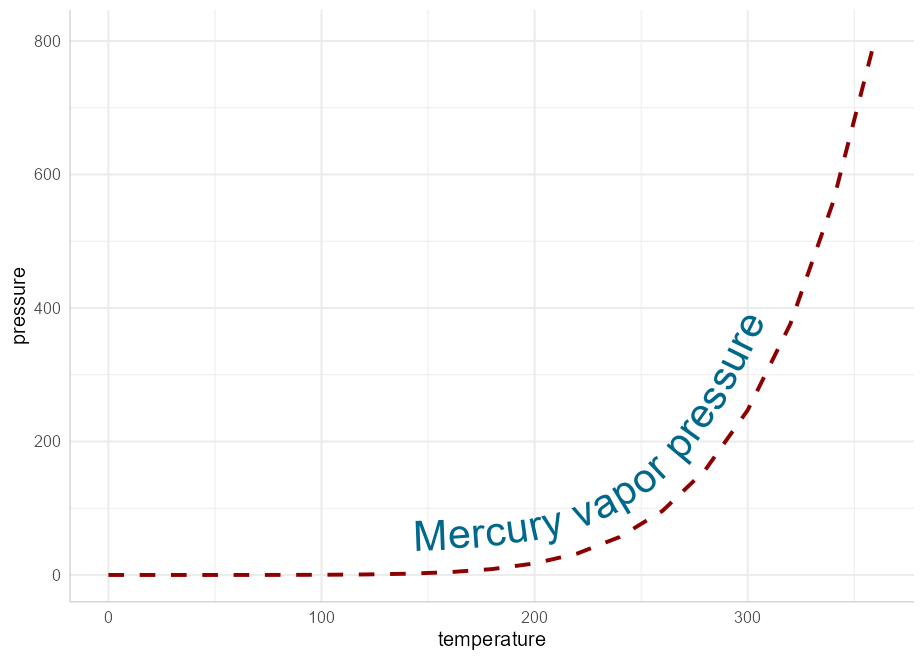
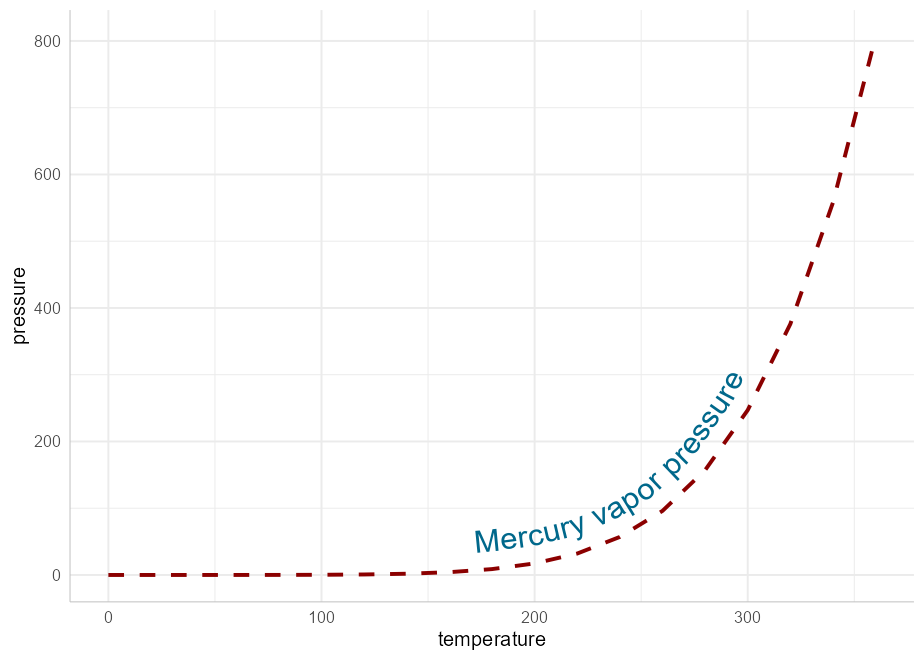
Added to vignettes

Changed region(s): [[0.4242, 0.4848, 0.8485, 0.8485]]

diff --git a/README.md b/README.md
@@ -135,7 +135,7 @@ separately.
 
 ``` r
 ggplot(pressure, aes(temperature, pressure)) +
-  geom_textline(label = "Mercury vapor pressure", size = 8, vjust = -0.5,
+  geom_textline(label = "Mercury vapor pressure", size = 6, vjust = -0.5,
                 linewidth = 1, linecolor = "red4", linetype = 2, 
                 color = "deepskyblue4")
 ```
